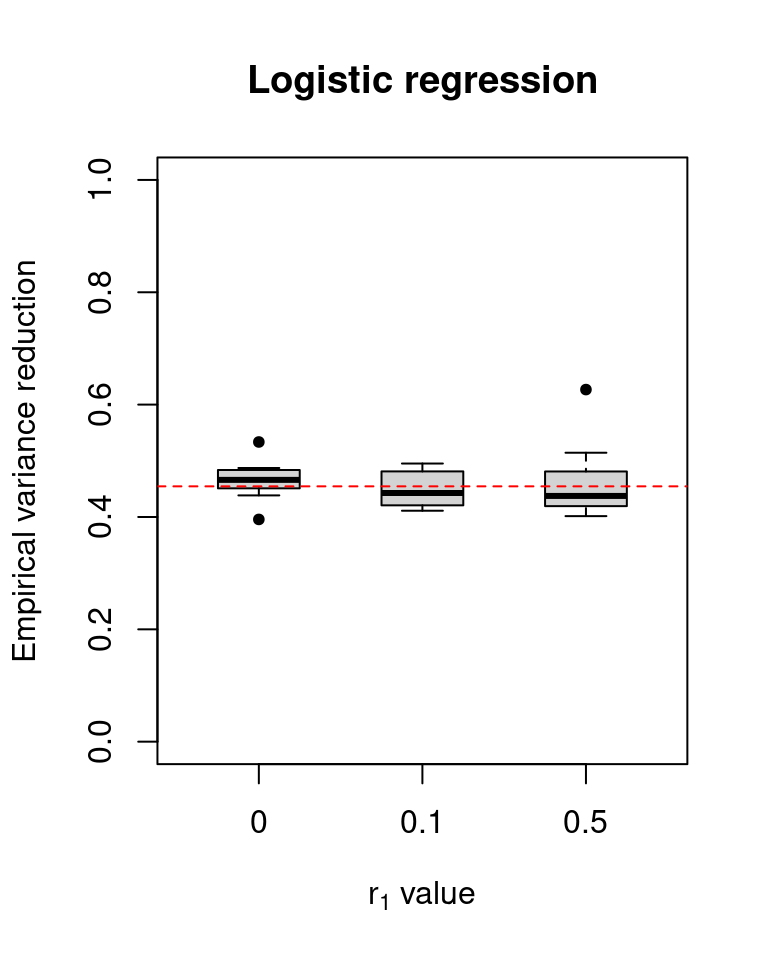
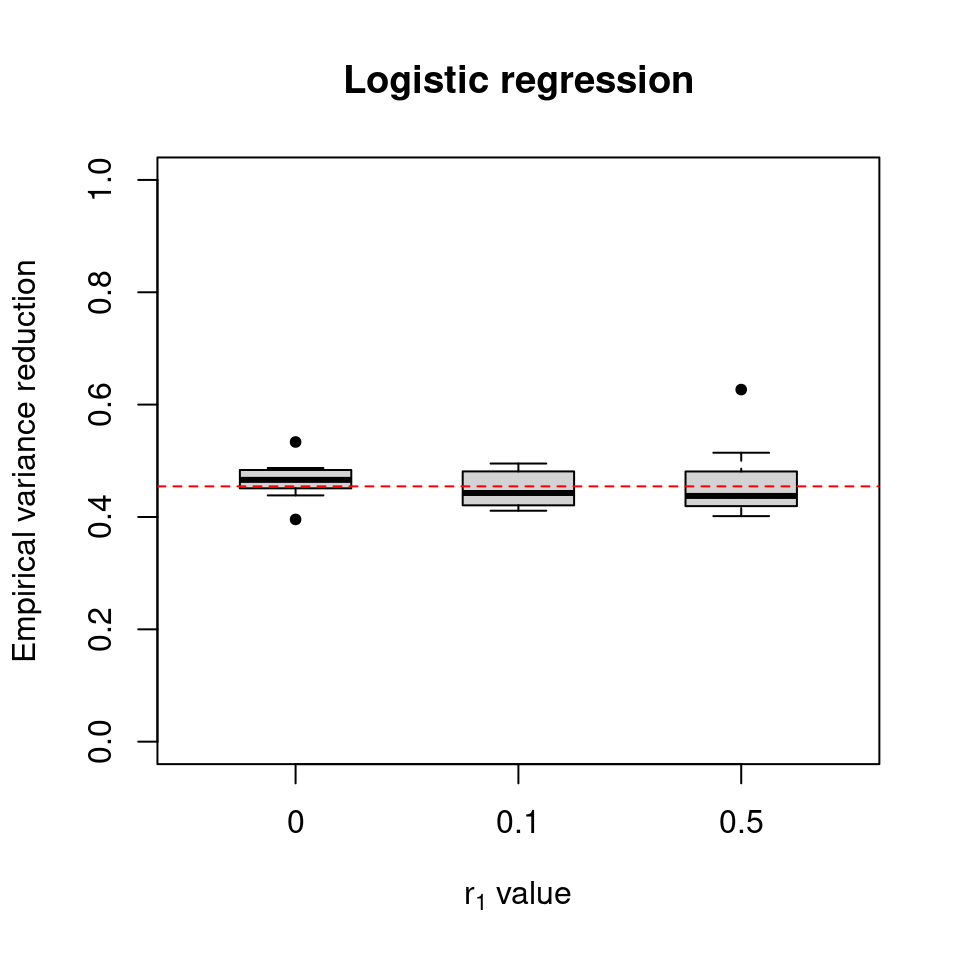
Build site.

diff --git a/docs/calibration_trio.html b/docs/calibration_trio.html
@@ -522,15 +522,15 @@ project makes it easier to run your code on other machines.</p>
 <div class="panel panel-default">
 <div class="panel-heading">
 <p class="panel-title">
-<a data-toggle="collapse" data-parent="#workflowr-checks" href="#strongRepositoryversionstrongahrefhttpsgithubcomyunqiyang0215simulationcalibratedmrtreecb0a6ed4563a5336d8137cce3c8700ee5e4c2f1atargetblankcb0a6eda">
+<a data-toggle="collapse" data-parent="#workflowr-checks" href="#strongRepositoryversionstrongahrefhttpsgithubcomyunqiyang0215simulationcalibratedmrtree5284000955144d3540a6570ec888957984d715datargetblank5284000a">
 <span class="glyphicon glyphicon-ok text-success"
 aria-hidden="true"></span> <strong>Repository version:</strong>
-<a href="https://github.com/yunqiyang0215/simulation-calibrated-mr/tree/cb0a6ed4563a5336d8137cce3c8700ee5e4c2f1a" target="_blank">cb0a6ed</a>
+<a href="https://github.com/yunqiyang0215/simulation-calibrated-mr/tree/5284000955144d3540a6570ec888957984d715da" target="_blank">5284000</a>
 </a>
 </p>
 </div>
 <div
[2 lines of base64/hex data omitted]
 class="panel-collapse collapse">
 <div class="panel-body">
 <p>
@@ -540,7 +540,7 @@ reproducibility.
 </p>
 <p>
 The results in this page were generated with repository version
-<a href="https://github.com/yunqiyang0215/simulation-calibrated-mr/tree/cb0a6ed4563a5336d8137cce3c8700ee5e4c2f1a" target="_blank">cb0a6ed</a>.
+<a href="https://github.com/yunqiyang0215/simulation-calibrated-mr/tree/5284000955144d3540a6570ec888957984d715da" target="_blank">5284000</a>.
 See the <em>Past versions</em> tab to see a history of the changes made
 to the R Markdown and HTML files.
 </p>
@@ -611,6 +611,40 @@ Message
 </tr>
 </thead>
 <tbody>
+<tr>
+<td>
+Rmd
+</td>
+<td>
+<a href="https://github.com/yunqiyang0215/simulation-calibrated-mr/blob/5284000955144d3540a6570ec888957984d715da/analysis/calibration_trio.Rmd" target="_blank">5284000</a>
+</td>
+<td>
+yunqi yang
+</td>
+<td>
+2024-06-26
+</td>
+<td>
+wflow_publish("analysis/calibration_trio.Rmd")
+</td>
+</tr>
+<tr>
+<td>
+html
+</td>
+<td>
+<a href="https://rawcdn.githack.com/yunqiyang0215/simulation-calibrated-mr/cc6f2b5ff615e399e9a1fdb96a1abb7debab30b4/docs/calibration_trio.html" target="_blank">cc6f2b5</a>
+</td>
+<td>
+yunqi yang
+</td>
+<td>
+2024-06-26
+</td>
+<td>
+Build site.
+</td>
+</tr>
 <tr>
 <td>
 Rmd
@@ -1069,7 +1103,7 @@ x_values = c(1, 2, 3)
 plot(x = as.factor(rep(x_values, p)), y = c(vr), xlab = TeX(&quot;$r_1$ value&quot;), ylab = &quot;Empirical variance reduction&quot;, xaxt=&quot;n&quot;, pch = 20,ylim = c(0, 1), boxwex = 0.5, main = &quot;Linear regression&quot;)
 axis(1, at = x_values, labels = c(&quot;0&quot;, &quot;0.1&quot;, &quot;0.5&quot;))
 abline(h = theo_vr, col = &quot;red&quot;, lty = 2)</code></pre>
-<p><img src="figure/calibration_trio.Rmd/unnamed-chunk-6-1.png" width="384" style="display: block; margin: auto;" /></p>
+<p><img src="figure/calibration_trio.Rmd/unnamed-chunk-6-1.png" width="480" style="display: block; margin: auto;" /></p>
 <p>
 <button type="button" class="btn btn-default btn-xs btn-workflowr btn-workflowr-fig" data-toggle="collapse" data-target="#fig-unnamed-chunk-6-1">
 Past versions of unnamed-chunk-6-1.png
@@ -1092,6 +1126,17 @@ Date
 </tr>
 </thead>
 <tbody>
+<tr>
+<td>
+<a href="https://github.com/yunqiyang0215/simulation-calibrated-mr/blob/cc6f2b5ff615e399e9a1fdb96a1abb7debab30b4/docs/figure/calibration_trio.Rmd/unnamed-chunk-6-1.png" target="_blank">cc6f2b5</a>
+</td>
+<td>
+yunqi yang
+</td>
+<td>
+2024-06-26
+</td>
+</tr>
 <tr>
 <td>
 <a href="https://github.com/yunqiyang0215/simulation-calibrated-mr/blob/609cef8d24eee0ecbbf70bd1907950ad172504ba/docs/figure/calibration_trio.Rmd/unnamed-chunk-6-1.png" target="_blank">609cef8</a>
@@ -1191,6 +1236,43 @@ plot(x = as.factor(rep(x_values, p)), c(vr), type = &quot;p&quot;,
 axis(side = 1, at = c(1:length(combination_labels)), labels = rep(combination_labels), las = 2, cex.axis = 0.8)
 abline(h = theo_vr, col = &quot;red&quot;, lty = 2)</code></pre>
 <p><img src="figure/calibration_trio.Rmd/unnamed-chunk-8-1.png" width="672" style="display: block; margin: auto;" /></p>
+<p>
+<button type="button" class="btn btn-default btn-xs btn-workflowr btn-workflowr-fig" data-toggle="collapse" data-target="#fig-unnamed-chunk-8-1">
+Past versions of unnamed-chunk-8-1.png
+</button>
+</p>
+<div id="fig-unnamed-chunk-8-1" class="collapse">
+<div class="table-responsive">
+<table class="table table-condensed table-hover">
+<thead>
+<tr>
+<th>
+Version
+</th>
+<th>
+Author
+</th>
+<th>
+Date
+</th>
+</tr>
+</thead>
+<tbody>
+<tr>
+<td>
+<a href="https://github.com/yunqiyang0215/simulation-calibrated-mr/blob/cc6f2b5ff615e399e9a1fdb96a1abb7debab30b4/docs/figure/calibration_trio.Rmd/unnamed-chunk-8-1.png" target="_blank">cc6f2b5</a>
+</td>
+<td>
+yunqi yang
+</td>
+<td>
+2024-06-26
+</td>
+</tr>
+</tbody>
+</table>
+</div>
+</div>
 </div>
 <div id="logistic-regression-exposure-trait" class="section level3">
 <h3>3. Logistic regression: exposure trait</h3>
@@ -1218,7 +1300,7 @@ x_values = c(1, 2, 3)
 plot(x = as.factor(rep(x_values, p)), y = c(vr), xlab = TeX(&quot;$r_1$ value&quot;), ylab = &quot;Empirical variance reduction&quot;, xaxt=&quot;n&quot;, pch = 20, ylim = c(0, 1), boxwex = 0.5, main = &quot;Logistic regression&quot;)
 axis(1, at = x_values, labels = c(&quot;0&quot;, &quot;0.1&quot;, &quot;0.5&quot;))
 abline(h = theo_vr, col = &quot;red&quot;, lty = 2)</code></pre>
-<p><img src="figure/calibration_trio.Rmd/unnamed-chunk-11-1.png" width="384" style="display: block; margin: auto;" /></p>
+<p><img src="figure/calibration_trio.Rmd/unnamed-chunk-11-1.png" width="480" style="display: block; margin: auto;" /></p>
 <p>
 <button type="button" class="btn btn-default btn-xs btn-workflowr btn-workflowr-fig" data-toggle="collapse" data-target="#fig-unnamed-chunk-11-1">
 Past versions of unnamed-chunk-11-1.png
@@ -1241,6 +1323,17 @@ Date
 </tr>
 </thead>
 <tbody>
+<tr>
+<td>
+<a href="https://github.com/yunqiyang0215/simulation-calibrated-mr/blob/cc6f2b5ff615e399e9a1fdb96a1abb7debab30b4/docs/figure/calibration_trio.Rmd/unnamed-chunk-11-1.png" target="_blank">cc6f2b5</a>
+</td>
+<td>
+yunqi yang
+</td>
+<td>
+2024-06-26
+</td>
+</tr>
 <tr>
 <td>
 <a href="https://github.com/yunqiyang0215/simulation-calibrated-mr/blob/609cef8d24eee0ecbbf70bd1907950ad172504ba/docs/figure/calibration_trio.Rmd/unnamed-chunk-11-1.png" target="_blank">609cef8</a>
@@ -1351,6 +1444,43 @@ plot(x = as.factor(rep(x_values, p)), c(vr), type = &quot;p&quot;,
 axis(side = 1, at = c(1:length(combination_labels)), labels = rep(combination_labels), las = 2, cex.axis = 0.8)
 abline(h = theo_vr, col = &quot;red&quot;, lty = 2)</code></pre>
 <p><img src="figure/calibration_trio.Rmd/unnamed-chunk-13-1.png" width="672" style="display: block; margin: auto;" /></p>
+<p>
+<button type="button" class="btn btn-default btn-xs btn-workflowr btn-workflowr-fig" data-toggle="collapse" data-target="#fig-unnamed-chunk-13-1">
+Past versions of unnamed-chunk-13-1.png
+</button>
+</p>
+<div id="fig-unnamed-chunk-13-1" class="collapse">
+<div class="table-responsive">
+<table class="table table-condensed table-hover">
+<thead>
+<tr>
+<th>
+Version
+</th>
+<th>
+Author
+</th>
+<th>
+Date
+</th>
+</tr>
+</thead>
+<tbody>
+<tr>
+<td>
+<a href="https://github.com/yunqiyang0215/simulation-calibrated-mr/blob/cc6f2b5ff615e399e9a1fdb96a1abb7debab30b4/docs/figure/calibration_trio.Rmd/unnamed-chunk-13-1.png" target="_blank">cc6f2b5</a>
+</td>
+<td>
+yunqi yang
+</td>
+<td>
+2024-06-26
+</td>
+</tr>
+</tbody>
+</table>
+</div>
+</div>
 <br>
 <p>
 <button type="button" class="btn btn-default btn-workflowr btn-workflowr-sessioninfo" data-toggle="collapse" data-target="#workflowr-sessioninfo" style="display: block;">
